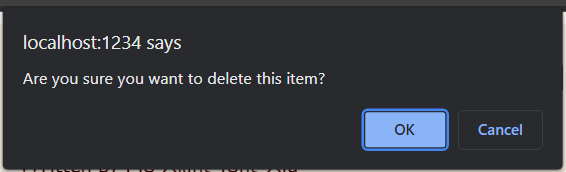
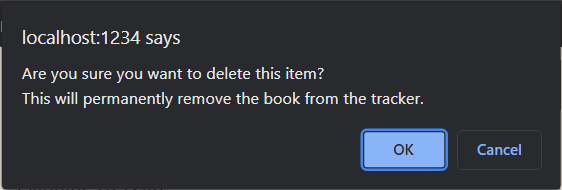
changes to delete popup documentation

diff --git a/README.md b/README.md
@@ -161,7 +161,7 @@ Similar to the changes done to the desktop version of this tracking form, there 
 ![Screenshot of the browser's alert message when deletign an item](documentation/prototype/confirm_delete.png)
 > Screenshot of the in-built browser alert when trying to delete a book
 
-I used `confirm("Are you sure you want to delete this item?")` to create a browser alert pop-up rather than creating my own stylised pop-up due to its ease of implementation. While it would suit the colour theme of the web app much better if there was a pop-up element created in JavaScript, `confirm()` easily verified the user's confirmation (`True`) or cancellation (`False`) when trying to delete a book from the tracker as it would not perform other browser actions until the alert is completed. The use of this in-built browser alert was much smoother than the need for multiple eventlisteners on the cancel and submit buttons created from a stylised pop-up.
+I used `confirm("Are you sure you want to delete this item?\nThis will permanently remove the book from the tracker.")` to create a browser alert pop-up rather than creating my own stylised pop-up due to its ease of implementation. While it would suit the colour theme of the web app much better if there was a pop-up element created in JavaScript, `confirm()` easily verified the user's confirmation (`True`) or cancellation (`False`) when trying to delete a book from the tracker as it would not perform other browser actions until the alert is completed. The use of this in-built browser alert was much smoother than the need for multiple eventlisteners on the cancel and submit buttons created from a stylised pop-up.
 
 ## Future improvements <a id="improvements"></a>
 - The webpage is not completely responsive outside of the optimal laptop screen and mobile screen listed above; CSS styling issues persisted with using relative values over absolute values
